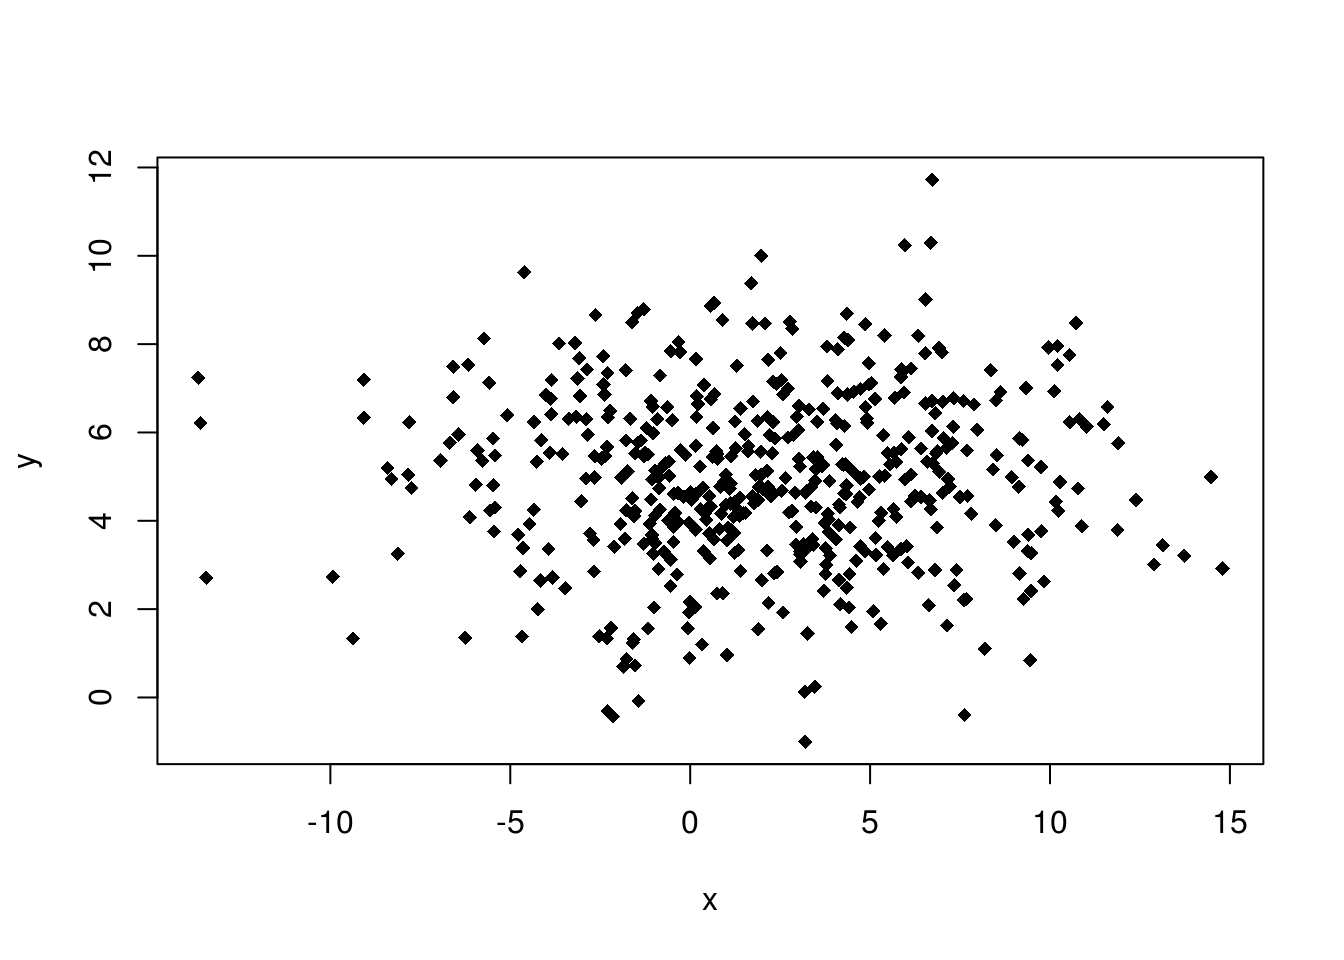
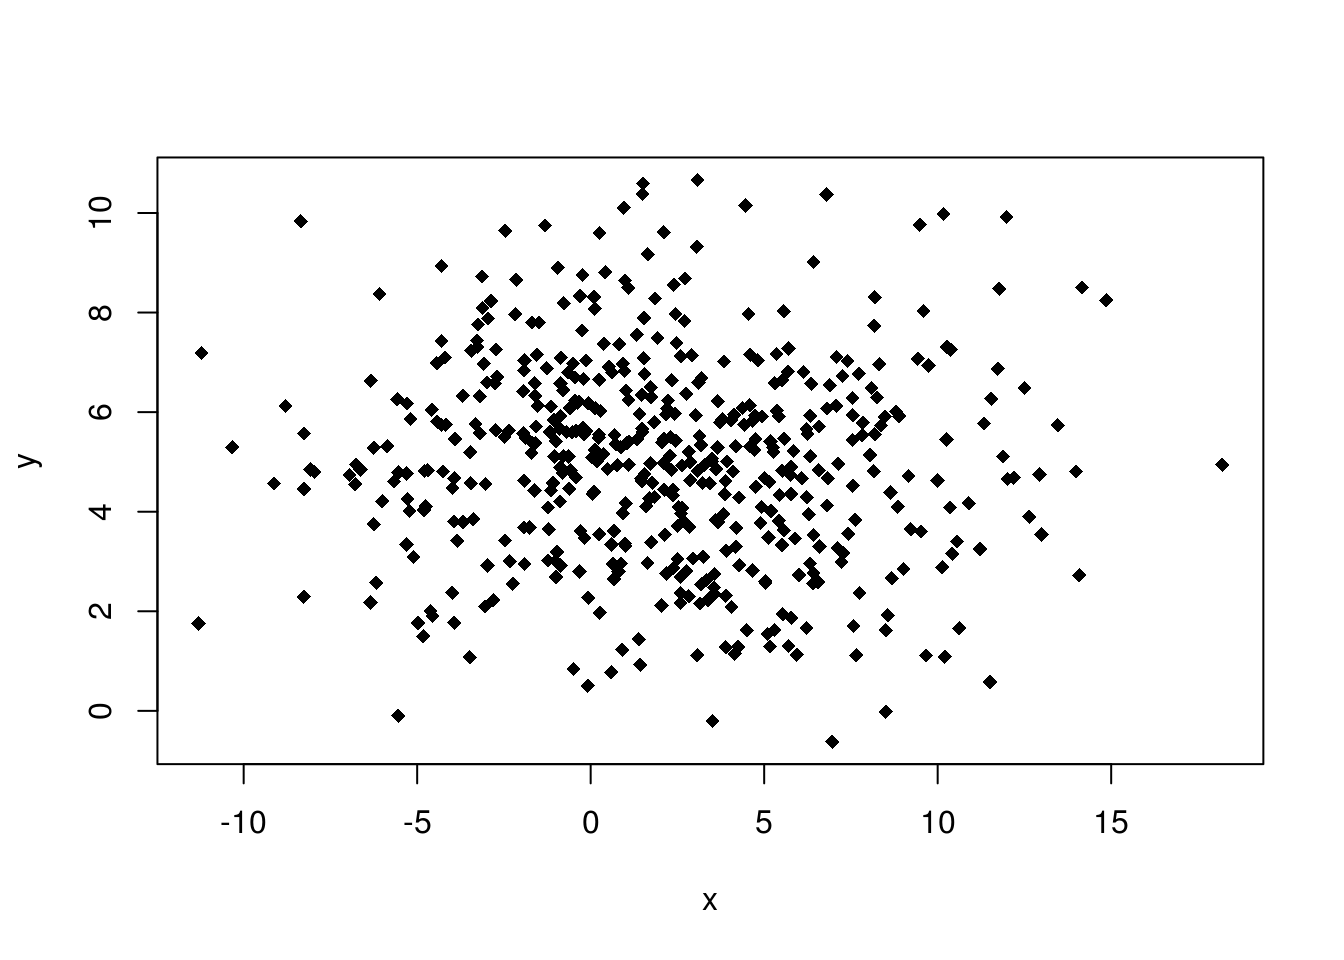
Go!

diff --git a/rex1.html b/rex1.html
@@ -9,9 +9,11 @@
 <meta name="generator" content="pandoc" />
 
 
+<meta name="author" content="Prof. Didier Murillo" />
 
+<meta name="date" content="2018-09-26" />
 
-<title>Tareas</title>
+<title>Resultados Examen 1 -Sección 070</title>
 
 <script src="site_libs/jquery-1.11.3/jquery.min.js"></script>
 <meta name="viewport" content="width=device-width, initial-scale=1" />
@@ -202,37 +204,50 @@ $(document).ready(function () {
 
 
 
-<h1 class="title toc-ignore">Tareas</h1>
+<h1 class="title toc-ignore">Resultados Examen 1 -Sección 070</h1>
+<h4 class="author"><em>Prof. Didier Murillo</em></h4>
+<h4 class="date"><em>September 26, 2018</em></h4>
 
 </div>
 
 
-<div id="reglas-para-todas-las-tareas" class="section level3">
-<h3>Reglas para todas las tareas:</h3>
-<ol style="list-style-type: decimal">
-<li>La tarea debe ser entregada en físico al iniciar la clase y en el día estipulado.</li>
-<li>Se pueden ayudar mutuamente en el uso de las computadoras, pero dos trabajos exactamente iguales recibirán nota CERO.</li>
-<li>En su reporte final debe aparecer todo el código de R y los respectivos resultados. En los cálculos manuales debe mostrar su procedimiento detalladamente.</li>
-<li>Todas las gráficas deben tener títulos que incluyan el nombre de estudiante, de lo contrario se descontarán puntos.</li>
-</ol>
+<div id="algunas-estadisticas-descriptivas." class="section level3">
+<h3>Algunas estadísticas descriptivas.</h3>
+<pre><code>   Min. 1st Qu.  Median    Mean 3rd Qu.    Max. 
+  44.00   70.00   86.00   79.55   90.00   97.00 </code></pre>
 </div>
-<div id="tarea-1.-fecha-limite-viernes-24-08-solucion-tarea-1" class="section level3">
-<h3><a href="https://didier-murillo.netlify.com/t1">Tarea 1. Fecha límite: Viernes-24-08</a> – <a href="https://didier-murillo.netlify.com/st1">Solución Tarea 1</a></h3>
+<div id="histograma-y-boxplot-de-las-notas" class="section level3">
+<h3>Histograma y boxplot de las notas</h3>
+<p><img src="rex1_files/figure-html/unnamed-chunk-3-1.png" width="672" /></p>
 </div>
-<div id="tarea-2.-fecha-limite-viernes-31-08-solucion-tarea-2" class="section level3">
-<h3><a href="https://didier-murillo.netlify.com/t2">Tarea 2. Fecha límite: Viernes-31-08</a> – <a href="https://didier-murillo.netlify.com/st2">Solución Tarea 2</a></h3>
+<div id="frecuencia-de-las-notas" class="section level3">
+<h3>Frecuencia de las notas</h3>
+<pre><code>
+ A  B  C  F 
+12  5  9  3 </code></pre>
+<p><img src="rex1_files/figure-html/unnamed-chunk-5-1.png" width="672" /></p>
 </div>
-<div id="tarea-3.-fecha-limite-viernes-07-09-solucion-tarea-3" class="section level3">
-<h3><a href="https://didier-murillo.netlify.com/t3">Tarea 3. Fecha límite: Viernes-07-09</a> – <a href="https://didier-murillo.netlify.com/st3">Solución Tarea 3</a></h3>
+<div id="resultados-examen-1--seccion-060" class="section level1">
+<h1>Resultados Examen 1 -Sección 060</h1>
+<div id="algunas-estadisticas-descriptivas.-1" class="section level3">
+<h3>Algunas estadísticas descriptivas.</h3>
+<pre><code>   Min. 1st Qu.  Median    Mean 3rd Qu.    Max. 
+  32.00   74.00   80.00   77.31   85.00   96.00 </code></pre>
 </div>
-<div id="tarea-4.-fecha-limite-viernes-14-09-solucion-tarea-4" class="section level3">
-<h3><a href="https://didier-murillo.netlify.com/t4">Tarea 4. Fecha límite: Viernes-14-09</a> – <a href="https://didier-murillo.netlify.com/st4">Solución Tarea 4</a></h3>
+<div id="histograma-y-boxplot-de-las-notas-1" class="section level3">
+<h3>Histograma y boxplot de las notas</h3>
+<p><img src="rex1_files/figure-html/unnamed-chunk-8-1.png" width="672" /></p>
 </div>
-<div id="tarea-5.-fecha-limite-viernes-05-10" class="section level3">
-<h3><a href="https://didier-murillo.netlify.com/t5">Tarea 5. Fecha límite: Viernes-05-10</a></h3>
+<div id="frecuencia-de-las-notas-1" class="section level3">
+<h3>Frecuencia de las notas</h3>
+<pre><code>
+ A  B  C  D  F 
+ 3 13  9  3  1 </code></pre>
+<p><img src="rex1_files/figure-html/unnamed-chunk-10-1.png" width="672" /></p>
 <div class="figure">
 <img src="blanco.png" />
 
+</div>
 </div>
 </div>
 

diff --git a/d_muestral.html b/d_muestral.html
@@ -260,16 +260,16 @@ for (i in 1:30){
 }
 #d_mean
 mean(d_mean)</code></pre>
-<pre><code>## [1] 9.225</code></pre>
+<pre><code>## [1] 9.925</code></pre>
 <pre class="r"><code>sd(d_mean)</code></pre>
-<pre><code>## [1] 2.590891</code></pre>
+<pre><code>## [1] 2.875394</code></pre>
 <ol start="3" style="list-style-type: decimal">
 <li>Tercero, calculamos las medias de todas esas muestras y tratamos de ver gráficamente mediante un histograma al menos si hay acercamiento a Normalidad.</li>
 </ol>
 <pre class="r"><code>mean(d_mean)</code></pre>
-<pre><code>## [1] 9.225</code></pre>
+<pre><code>## [1] 9.925</code></pre>
 <pre class="r"><code>sd(d_mean)</code></pre>
-<pre><code>## [1] 2.590891</code></pre>
+<pre><code>## [1] 2.875394</code></pre>
 <p>Interpretación: Notar que la media de las medias muestrales es <span class="math inline">\(\mu_{\bar{X}}=10.075\)</span> que está bien cerca de la media poblacional . Además la desviación estándar de la media muestral es 2.806 mientras que <span class="math inline">\(\sigma/\sqrt{n}=5.418/2=2.709\)</span>. Ambos valores también están relativamente cerca. El histograma si está un poco alejado de la normalidad. Si se incrementa el tamaño de las muestras se puede notar una mejor aproximación a la Normal.</p>
 <pre class="r"><code>hist(d_mean,col = &quot;blue&quot;,freq = F)</code></pre>
 <p><img src="d_muestral_files/figure-html/unnamed-chunk-4-1.png" width="672" /></p>

diff --git a/st4.html b/st4.html
@@ -334,8 +334,8 @@ boxplot(Ponce, main = &quot;Boxplot lluvia-Ponce - Didier Murillo&quot;)</code><
 <div id="cv-para-ponce" class="section level4">
 <h4>CV para Ponce</h4>
 </div>
-<div id="cv-dfrac42.3762112.2100-0.377610037.76" class="section level4">
-<h4><span class="math display">\[CV = \dfrac{42.3762}{112.2}*100 = 0.3776*100=37.76 \%\]</span></h4>
+<div id="cv-dfrac42.3762122.2100-0.377610034.67" class="section level4">
+<h4><span class="math display">\[CV = \dfrac{42.3762}{122.2}*100 = 0.3776*100=34.67\%\]</span></h4>
 </div>
 <div id="la-ciudad-con-mayor-variabilidad-en-la-lluvia-es-ponce.-la-variabilidad-en-mayaguez-es-muy-poca." class="section level4">
 <h4>La ciudad con mayor variabilidad en la lluvia es Ponce. La variabilidad en Mayagüez es muy poca.</h4>

diff --git a/correlacion.html b/correlacion.html
@@ -262,7 +262,7 @@ plot(x,y,pch=18)</code></pre>
 <p><img src="correlacion_files/figure-html/unnamed-chunk-4-1.png" width="672" /></p>
 <p>¿Cuánto es la correlación entre <code>x</code> e <code>y</code>?</p>
 <pre class="r"><code>cor(x,y)</code></pre>
-<pre><code>## [1] 0.0189429</code></pre>
+<pre><code>## [1] -0.05278945</code></pre>
 <p>El coeficiente de correlación es similar a la media, mediana, desviación estándar, Q1, etc .: viene en dos versiones:</p>
 <ul>
 <li><p>Es una estadístico cuando se encuentra a partir de una muestra</p></li>

diff --git a/dNormal.html b/dNormal.html
@@ -343,8 +343,8 @@ Notas &lt;- rnorm(30,75,10)
 # Redondeando los resultados
 Notas &lt;- round(Notas,digits = 0)
 print(Notas)</code></pre>
-<pre><code>##  [1]  81  92  56  65  62  55  72  59  54  58  86  83 114  89  75  71  71
-## [18]  67  92  80  70  85  67  71  71  59  72  71  90  76</code></pre>
+<pre><code>##  [1] 80 75 70 71 72 72 67 86 76 67 81 79 74 79 66 73 65 63 72 77 66 73 57
+## [24] 71 87 63 63 73 80 87</code></pre>
 <p><strong>¿Cuál es la probabilidad que un estudiante tenga más 73 en la nota?</strong></p>
 <hr />
 <hr />
